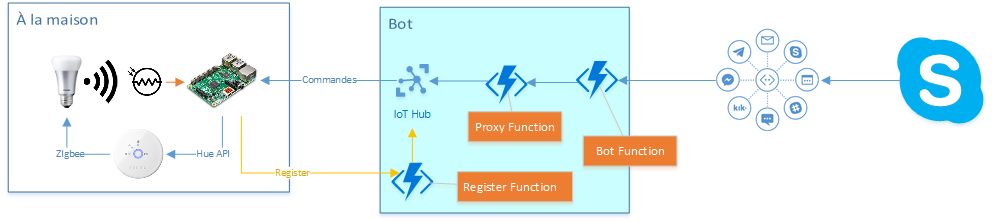
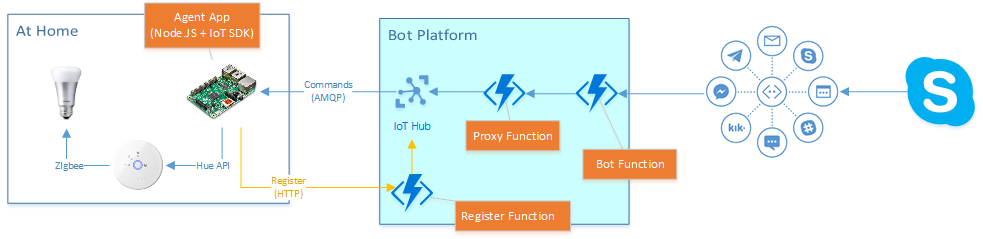
Doc updates

diff --git a/README.md b/README.md
@@ -2,15 +2,17 @@
 
 This chatbot will rule your Hue lights.
 
-However, sending commands to the Hue Bridge in your home is hard (because of the security, and it's good). This means we need a bit of architecture in order to be able to talk to the Hue Bridge inside your home network.
+However, sending commands to the Hue Bridge in your home is hard (because of the security, and that''s good). This means we need a bit of infrastructure in order to be able to talk to the Hue Bridge inside your home network.
 
 ## Overall architecture
 
 ![Architecture Diagram](images/Functions_IoT_Demo.png)
 
+The Bot will use the IoT Hub service in order to securely communicate with the bridge device.
+
 ## Hue Agent
 
-In order to be able to talk to your Hue Bridge, the Bot needs you to run an Agent from a machine connected to your local network.
+In order to be able to talk to your Hue Bridge, the Bot needs you to run an Agent from a machine connected to your local network. Just clone this repo, and then run the following commands:
 
 ``` sh
 cd HueAgent
@@ -22,7 +24,9 @@ If you don't have a username, omit it and the Agent will create one for you. Ple
 
 The Agent will print a UUID (unique identifier) for your Hue Bridge. You will need to give this UUID to the Hue Bot so it can communicate with your lights.
 
-TODO: package the Agent as a Docker image so it is easier to start e.g. from a Raspberry Pi device.
+Leave the Agent running, as this is necessary for the Bot to communicate with your lights. I personnally use a Raspberry Pi device which is perfect for this type of gateway.
+
+TODO: package the Agent as a Docker image so it is easier to start from a Raspberry Pi device.
 
 ## Hue Proxy
 
@@ -30,4 +34,4 @@ The Agent will then communicate with a Proxy service hosted in Azure, using the 
 
 ## Hue Bot
 
-TBD
+The first time you chat with the Hue Bot, it will ask you for your UUID. Paste the text string that you received when you started the Agent.
